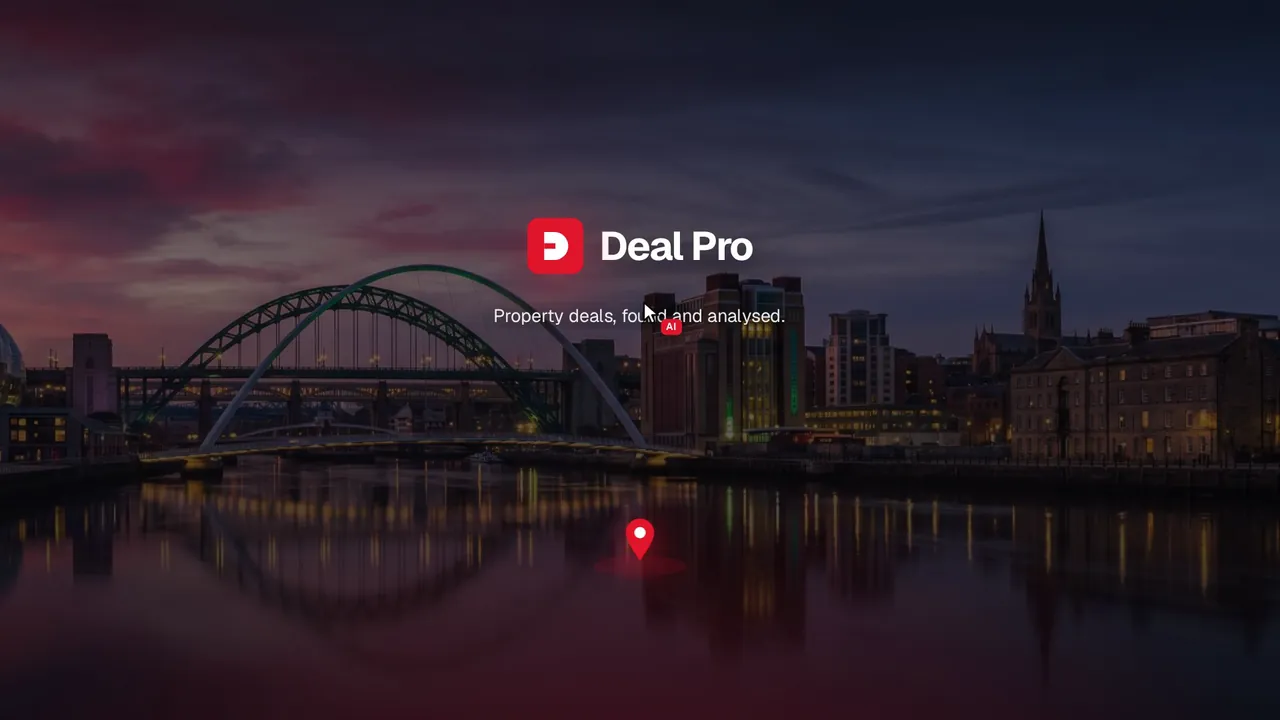
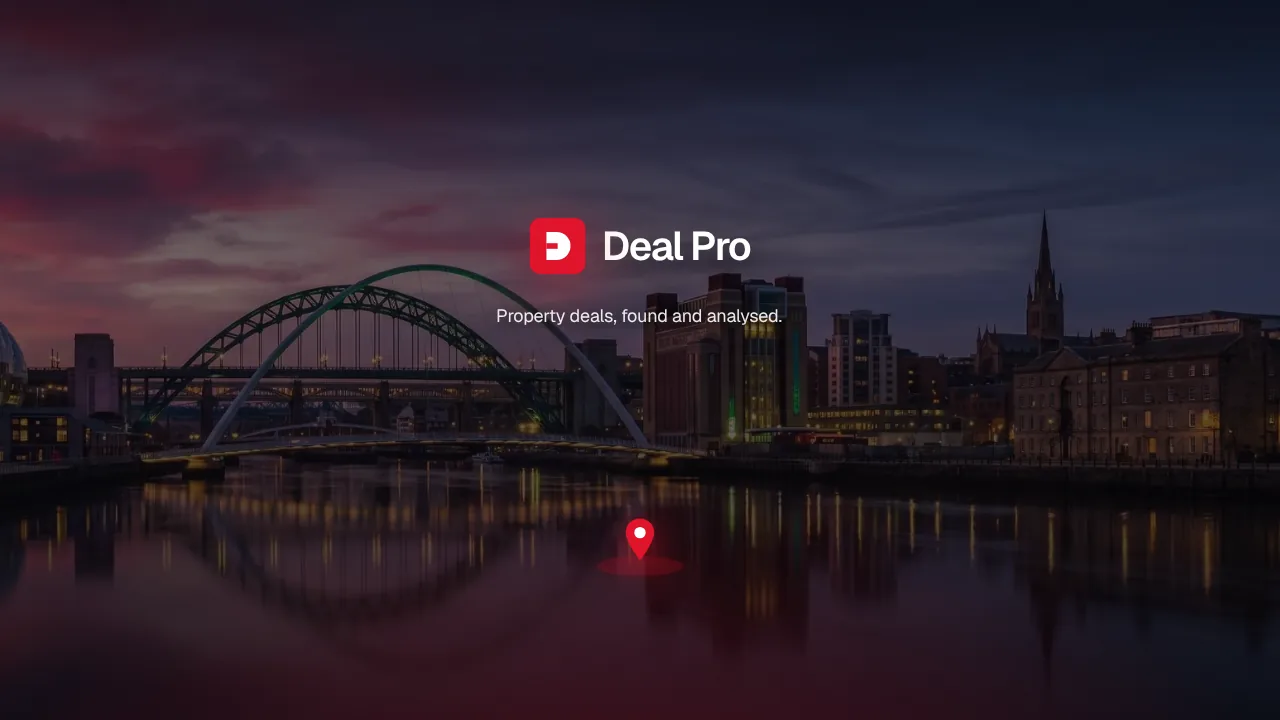
New link preview and tutorial thumbnail without the AI cursor tag
Claude-Session: https://claude.ai/code/session_016Bo4UCof16Xsu7Wsv3ap9o

diff --git a/index.html b/index.html
@@ -17,14 +17,14 @@
 <meta property="og:url" content="https://usedealpro.com/">
 <meta property="og:title" content="Deal Pro | Property Deals, Found and Analysed">
 <meta property="og:description" content="Find buy-to-let, rent-to-rent, serviced accommodation, HMO, BRRR, flip, lease option and commercial deals, then turn each deal into clear numbers, risks and next steps.">
-<meta property="og:image" content="https://usedealpro.com/assets/deal-pro-tutorial-poster.png?v=8">
+<meta property="og:image" content="https://usedealpro.com/assets/deal-pro-tutorial-poster.png?v=9">
 <meta property="og:image:width" content="1280">
 <meta property="og:image:height" content="720">
 <meta property="og:image:alt" content="Deal Pro: find, assess and organise property opportunities">
 <meta name="twitter:card" content="summary_large_image">
 <meta name="twitter:title" content="Deal Pro | Property Deals, Found and Analysed">
 <meta name="twitter:description" content="Find buy-to-let, rent-to-rent, serviced accommodation, HMO, BRRR, flip, lease option and commercial deals, then turn each deal into clear numbers, risks and next steps.">
-<meta name="twitter:image" content="https://usedealpro.com/assets/deal-pro-tutorial-poster.png?v=8">
+<meta name="twitter:image" content="https://usedealpro.com/assets/deal-pro-tutorial-poster.png?v=9">
 <script type="application/ld+json">
 {
   "@context": "https://schema.org",
@@ -34,7 +34,7 @@
   "applicationCategory": "BusinessApplication",
   "operatingSystem": "Web",
   "description": "Find UK property opportunities and analyse rent-to-rent and serviced accommodation deals: occupancy scenarios, break-even, risks and due diligence.",
-  "image": "https://usedealpro.com/assets/deal-pro-tutorial-poster.png?v=8",
+  "image": "https://usedealpro.com/assets/deal-pro-tutorial-poster.png?v=9",
   "inLanguage": "en-GB",
   "offers": {"@type": "Offer", "price": "0", "priceCurrency": "GBP", "description": "Start free with 2 deal analyses"}
 }
@@ -1168,7 +1168,7 @@ html.fx .rv.in{opacity:1;transform:none;transition:opacity .7s var(--ease) var(-
       </ol>
     </section>
     <section class="hsec tutorial" id="tutorial" aria-labelledby="tutorialTitle">
-      <div class="tutorial-media"><video controls preload="metadata" poster="/assets/deal-pro-tutorial-poster.webp?v=9"><source src="/assets/deal-pro-tutorial.mp4?v=8" type="video/mp4">Your browser does not support this tutorial video.</video><div class="chap" data-chapters="[{&quot;t&quot;: 0, &quot;title&quot;: &quot;Welcome&quot;}, {&quot;t&quot;: 21.5, &quot;title&quot;: &quot;Signing in&quot;}, {&quot;t&quot;: 43.8, &quot;title&quot;: &quot;Power levels&quot;}, {&quot;t&quot;: 78.3, &quot;title&quot;: &quot;Filters and sites&quot;}, {&quot;t&quot;: 112.4, &quot;title&quot;: &quot;Searching&quot;}, {&quot;t&quot;: 143.1, &quot;title&quot;: &quot;Results and top picks&quot;}, {&quot;t&quot;: 189.8, &quot;title&quot;: &quot;Analysing a deal&quot;}, {&quot;t&quot;: 236.1, &quot;title&quot;: &quot;Due diligence and deal packs&quot;}, {&quot;t&quot;: 255.8, &quot;title&quot;: &quot;Deal Community&quot;}, {&quot;t&quot;: 271.8, &quot;title&quot;: &quot;Plans, credits and refunds&quot;}, {&quot;t&quot;: 302.6, &quot;title&quot;: &quot;Final reminder&quot;}]"></div></div>
+      <div class="tutorial-media"><video controls preload="metadata" poster="/assets/deal-pro-tutorial-poster.webp?v=10"><source src="/assets/deal-pro-tutorial.mp4?v=8" type="video/mp4">Your browser does not support this tutorial video.</video><div class="chap" data-chapters="[{&quot;t&quot;: 0, &quot;title&quot;: &quot;Welcome&quot;}, {&quot;t&quot;: 21.5, &quot;title&quot;: &quot;Signing in&quot;}, {&quot;t&quot;: 43.8, &quot;title&quot;: &quot;Power levels&quot;}, {&quot;t&quot;: 78.3, &quot;title&quot;: &quot;Filters and sites&quot;}, {&quot;t&quot;: 112.4, &quot;title&quot;: &quot;Searching&quot;}, {&quot;t&quot;: 143.1, &quot;title&quot;: &quot;Results and top picks&quot;}, {&quot;t&quot;: 189.8, &quot;title&quot;: &quot;Analysing a deal&quot;}, {&quot;t&quot;: 236.1, &quot;title&quot;: &quot;Due diligence and deal packs&quot;}, {&quot;t&quot;: 255.8, &quot;title&quot;: &quot;Deal Community&quot;}, {&quot;t&quot;: 271.8, &quot;title&quot;: &quot;Plans, credits and refunds&quot;}, {&quot;t&quot;: 302.6, &quot;title&quot;: &quot;Final reminder&quot;}]"></div></div>
       <div class="tutorial-copy"><p class="eyebrow"><span class="eb-dot" aria-hidden="true"></span>Guided tutorial</p><h2 class="h2" id="tutorialTitle">Learn Deal Pro</h2><p>Watch the complete workflow, or jump straight to the part you need.</p><ol class="chap-list" id="tutorialChapters"></ol><button class="btn primary" data-go="find">Start with Deal Finder</button></div>
     </section>
     <section class="hsec" aria-labelledby="hPlans">
